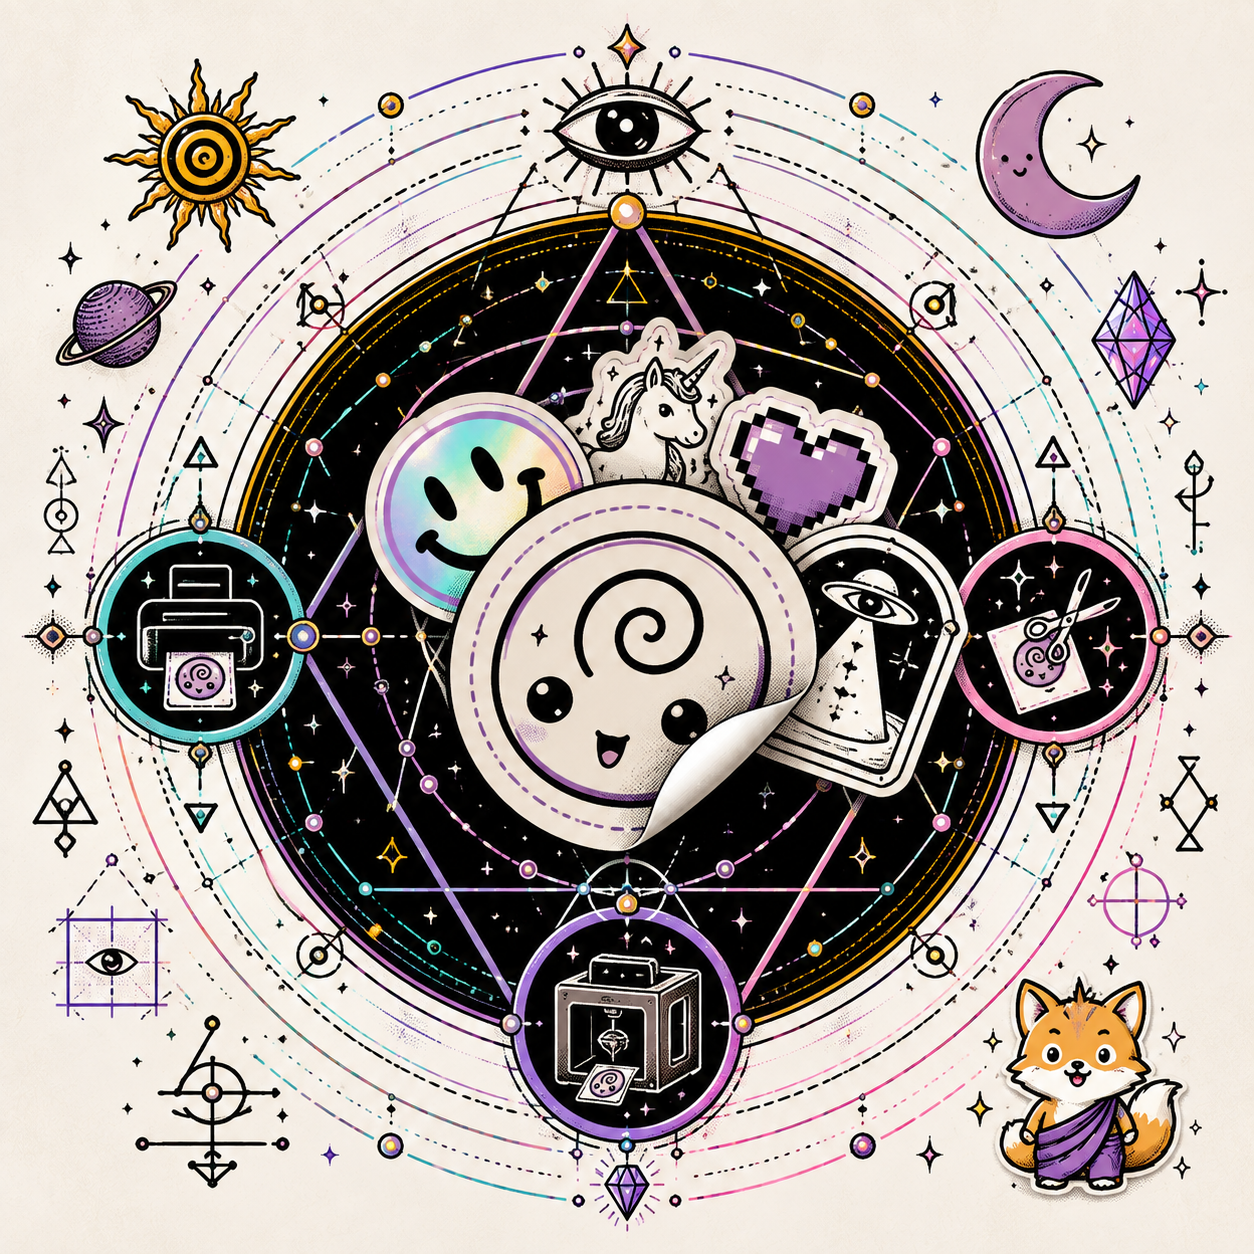
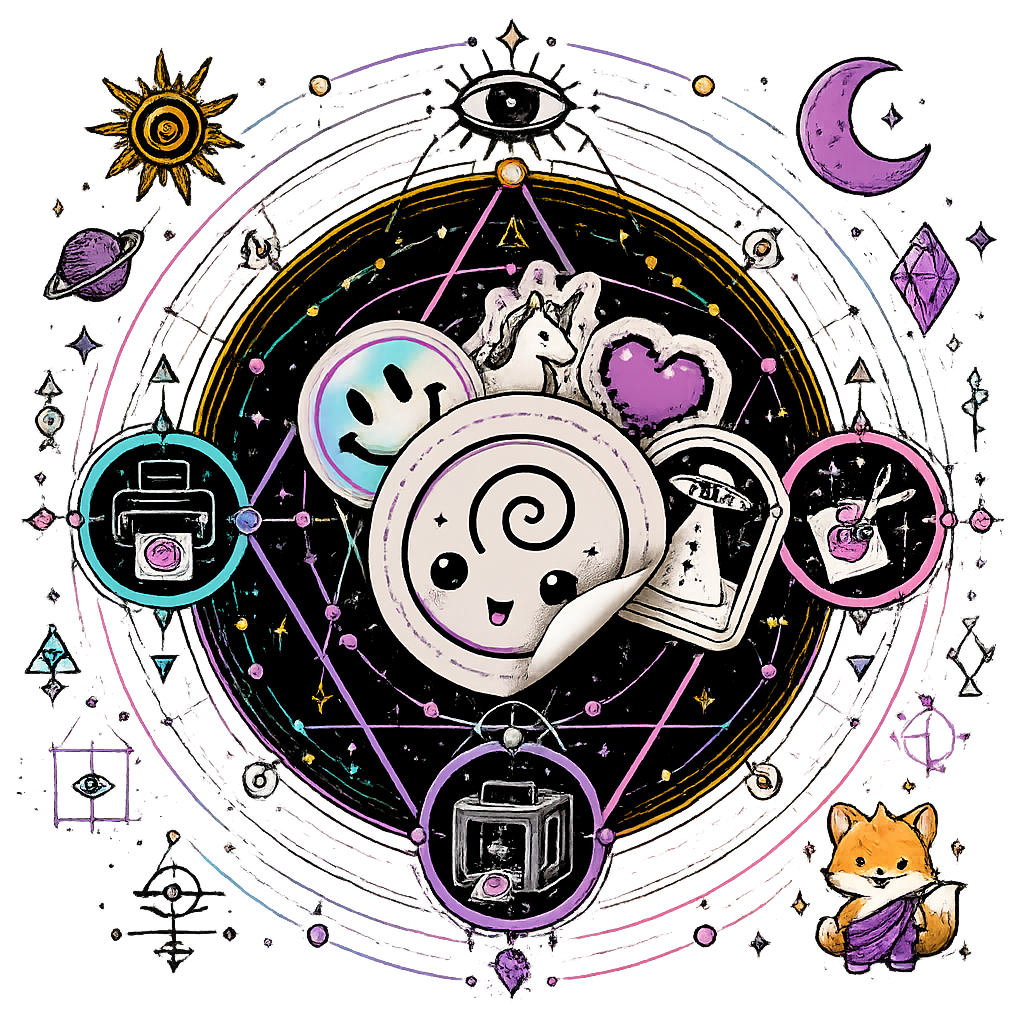
feat: agrega ruta puente /api/pedidos hacia hk-backend

diff --git a/src/app/api/pedidos/route.ts b/src/app/api/pedidos/route.ts
@@ -1,0 +1,21 @@
+import { NextRequest, NextResponse } from "next/server";
+
+const API_URL = process.env.API_URL || "http://192.168.1.133:3001/api";
+
+export async function POST(request: NextRequest) {
+  const authorization = request.headers.get("authorization");
+  const body = await request.json();
+
+  const respuesta = await fetch(`${API_URL}/pedidos`, {
+    method: "POST",
+    headers: {
+      "Content-Type": "application/json",
+      Authorization: authorization ?? "",
+    },
+    body: JSON.stringify(body),
+  });
+
+  const data = await respuesta.json();
+
+  return NextResponse.json(data, { status: respuesta.status });
+}
